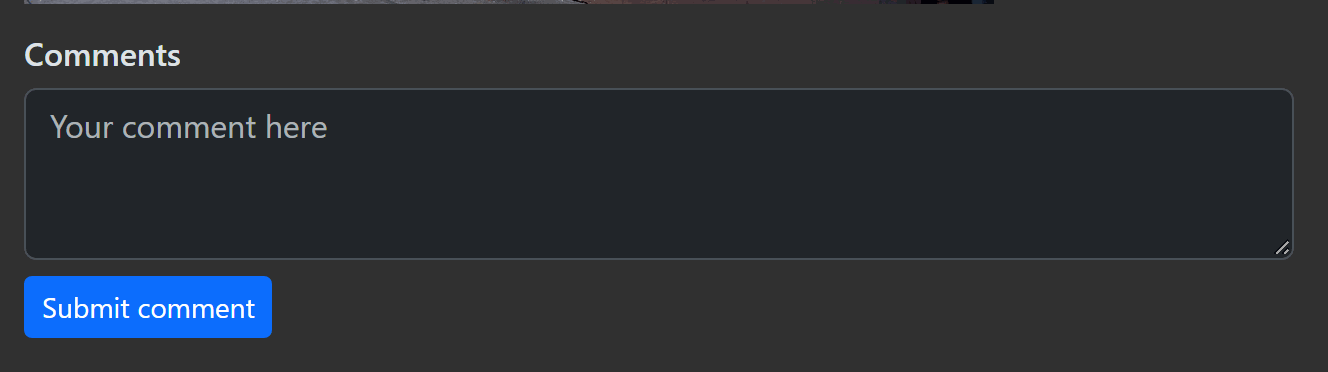
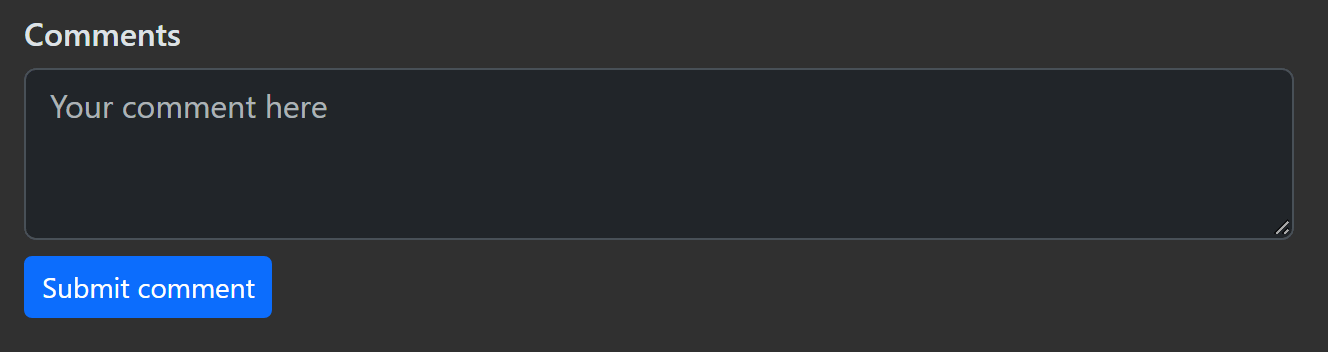
Root's API-token link inside the form's column; readable crop failures; comment shot without the photo's edge
The link on another account's profile is a plain paragraph at the end of #edit-user (a second
col-md-4 sat beside the form and shifted it); ApiTokenPageSpec asserts it is inside. The crops
assert their elements are shown, the score-rule crop is capped at the viewport, and the comment
box's crop starts below the photo.

diff --git a/browser-test/tests/docs-screenshots.spec.js b/browser-test/tests/docs-screenshots.spec.js
@@ -78,7 +78,12 @@ test.describe('the guides\' screenshots', () => {
 
   /** The page height that ends below the `n`th row of the gallery's tiles (with a margin), so
     * that no crop cuts through a photo. */
-  const belowRows = (page, n) => page.evaluate((rows) => {
+  const belowRows = async (page, n) => {
+    const height = await measureRows(page, n);
+    expect(height, 'the page shows gallery tiles (.ug-tile or .gallerybox)').not.toBeNull();
+    return height;
+  };
+  const measureRows = (page, n) => page.evaluate((rows) => {
     // the gallery's tiles (.ug-tile) or the results' (.gallerybox), in rows: tiles in a row are
     // centred on each other, so a tile starts a new row when it begins below the row's bottom
     const boxes = [...document.querySelectorAll('.ug-tile, .gallerybox')]
@@ -92,6 +97,7 @@ test.describe('the guides\' screenshots', () => {
       if (last && box.top < last.bottom - 4) last.bottom = Math.max(last.bottom, box.bottom);
       else rowList.push({ top: box.top, bottom: box.bottom });
     }
+    if (rowList.length === 0) return null;
     const row = rowList[Math.min(rows, rowList.length) - 1];
     const next = rowList[rows]; // the margin never reaches the next row's photos
     return Math.floor(next ? Math.min(row.bottom + 12, next.top - 2) : row.bottom + 12);
@@ -99,13 +105,19 @@ test.describe('the guides\' screenshots', () => {
 
   /** The page height that ends below the `n`th body row of the page's first table, so that no
     * crop cuts through a row. */
-  const belowTableRow = (page, n) => page.evaluate((count) => {
+  const belowTableRow = async (page, n) => {
+    const height = await measureTableRow(page, n);
+    expect(height, 'the page shows a table with body rows').not.toBeNull();
+    return height;
+  };
+  const measureTableRow = (page, n) => page.evaluate((count) => {
     const rows = [...document.querySelectorAll('table tbody tr')].filter((r) => r.getBoundingClientRect().height > 0);
+    if (rows.length === 0) return null;
     const row = rows[Math.min(count, rows.length) - 1].getBoundingClientRect();
     return Math.ceil(row.bottom + window.scrollY) + 2;
   }, n);
 
-  async function shot(contextAs, role, target, name, { full = false, prepare, crop, height, width, rows, tableRows } = {}) {
+  async function shot(contextAs, role, target, name, { full = false, prepare, crop, cropTop = 12, height, width, rows, tableRows } = {}) {
     const context = await contextAs(role);
     await context.addCookies([{ name: 'theme', value: 'dark', url: baseUrl }]);
     const page = await sized(context);
@@ -136,7 +148,8 @@ test.describe('the guides\' screenshots', () => {
       const navBox = await page.locator('nav.navbar').count() ? await page.locator('nav.navbar').first().boundingBox() : null;
       const navBottom = navBox ? Math.ceil(navBox.y + navBox.height + scrollY) + 1 : 0;
       const x = Math.max(0, left - 12);
-      const y = Math.max(navBottom, topEdge - 12);
+      // (`cropTop`: a smaller margin above where the photo's edge is close, as in the comment box)
+      const y = Math.max(navBottom, topEdge - cropTop);
       await page.screenshot({ path: file, fullPage: true,
         clip: { x, y, width: Math.min(VIEWPORT.width - x, right - x + 12), height: bottom - y + 12 } });
     } else if (rows) await top(page, file, await belowRows(page, rows), width);
@@ -158,7 +171,7 @@ test.describe('the guides\' screenshots', () => {
     await shot(contextAs, 'juror', galleryPath(fixture.roundBinaryId, juror.id), 'juror-gallery-top-bar', { height: 56 });
     await shot(contextAs, 'juror', largePath(fixture.roundBinaryId, juror.id, juror.pageId), 'juror-large-view-binary', LARGE_TOP);
     // the comment box, under the photo
-    await shot(contextAs, 'juror', largePath(fixture.roundBinaryId, juror.id, juror.pageId), 'juror-large-view-comments', { crop: '.large-comments' });
+    await shot(contextAs, 'juror', largePath(fixture.roundBinaryId, juror.id, juror.pageId), 'juror-large-view-comments', { crop: '.large-comments', cropTop: 2 });
     await shot(contextAs, 'juror', largePath(fixture.roundRatingId, juror.id, juror.ratedPageId), 'juror-large-view-rated', {
       ...LARGE_TOP,
       // a plain star rate in a round without the worst mark, as the guide describes. The
@@ -185,6 +198,7 @@ test.describe('the guides\' screenshots', () => {
     await stat.waitForLoadState('networkidle');
     const lastRow = await stat.locator('table tbody tr').last().boundingBox();
     const link = await stat.locator('#round-conflicts-link').boundingBox();
+    expect(lastRow && link, 'the statistics table\'s last row and the conflicts link are shown').toBeTruthy();
     await stat.screenshot({ path: path.join(OUT_DIR, 'organizer-round-statistics-link.png'), fullPage: true,
       clip: { x: 0, y: lastRow.y - 2, width: VIEWPORT.width, height: link.y + link.height - lastRow.y + 22 } });
     await context.close();
@@ -229,6 +243,7 @@ test.describe('the guides\' screenshots', () => {
     await top(page, path.join(OUT_DIR, 'admin-users.png'), await belowTableRow(page, 4));
     const heading = await page.getByRole('heading', { name: 'Invitations', exact: true }).boundingBox();
     const table = await page.locator('table.pending-invitations').boundingBox();
+    expect(heading && table, 'the Invitations heading and its table are shown').toBeTruthy();
     await page.screenshot({ path: path.join(OUT_DIR, 'admin-invitations.png'), fullPage: true,
       clip: { x: 0, y: heading.y - 10, width: VIEWPORT.width, height: table.y + table.height - heading.y + 20 } });
 
@@ -301,7 +316,8 @@ test.describe('the guides\' screenshots', () => {
     const y = Math.max(0, from.y + scrollY - 12);
     await page.screenshot({ path: path.join(OUT_DIR, 'organizer-score-rule-warning.png'), fullPage: true,
       // the centred form's width (the rows span it), with a margin
-      clip: { x: Math.max(0, from.x - 12), y, width: from.width + 24, height: to.y + scrollY + to.height + 12 - y } });
+      clip: { x: Math.max(0, from.x - 12), y, width: Math.min(VIEWPORT.width - Math.max(0, from.x - 12), from.width + 24),
+        height: to.y + scrollY + to.height + 12 - y } });
     await context.close(); // not saved
   });
 

diff --git a/app/views/editUser.scala.html b/app/views/editUser.scala.html
@@ -226,6 +226,14 @@
                 }
             </section>
             }
+
+            @* root, on another account: a link to its API tokens, to revoke them
+               (ApiTokenAdminController), at the end of the form's column *@
+            @if(tokensCard.isEmpty && user.hasRole(User.ROOT_ROLE)) {
+                @for(id <- editUserForm("id").value.flatMap(_.toLongOption).filter(id => id != 0 && !user.id.contains(id))) {
+                    <p class="mt-3"><a href="@routes.ApiTokenAdminController.tokens(id)">@Messages("api.tokens")</a></p>
+                }
+            }
         </div>
         @* the own profile only: the user's personal API tokens, and their linked Google and
            Wikimedia accounts (if this host offers a provider, or one is linked) *@
@@ -238,12 +246,6 @@
                     @linkedAccounts(card)
                 }
             </div>
-        }
-        @* root, on another account: a link to its API tokens, to revoke them (ApiTokenAdminController) *@
-        @if(tokensCard.isEmpty && user.hasRole(User.ROOT_ROLE)) {
-            @for(id <- editUserForm("id").value.flatMap(_.toLongOption).filter(id => id != 0 && !user.id.contains(id))) {
-                <p class="col-md-4 mt-3"><a href="@routes.ApiTokenAdminController.tokens(id)">@Messages("api.tokens")</a></p>
-            }
         }
     </div>
 }

diff --git a/docs/user/images/README.md b/docs/user/images/README.md
@@ -13,7 +13,7 @@ numbered examples before each shot, and the link to share shows a neutral host.
 Chromium (156), the app's own font stack, 2026-11-10. Text rendering depends on the operating
 system, so regenerate all the images together on one platform and update this line.
 
-**Size:** 25 images, about 3.8 MB in all. The largest are the two galleries (about 680 and 770
+**Size:** 25 images, about 3.7 MB in all. The largest are the two galleries (about 680 and 770
 KB) and the by-rate results (about 560 KB); the three large views are cropped to the controls
 column and the top of the photo (about 310 KB each), with the comment box in its own small shot;
 the others stay small. The profile, user-edit, share-link and score-rule shots are cropped to
